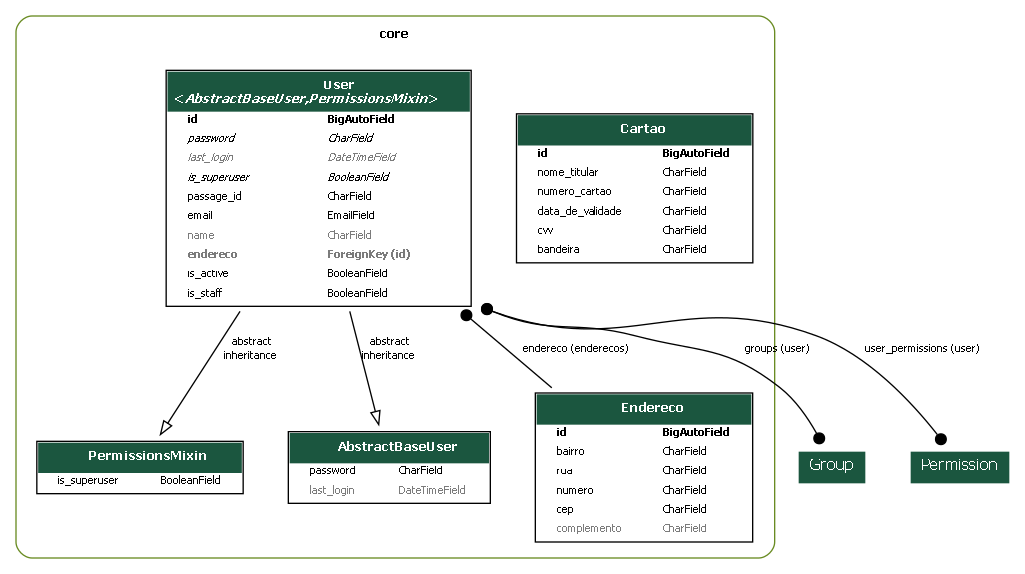
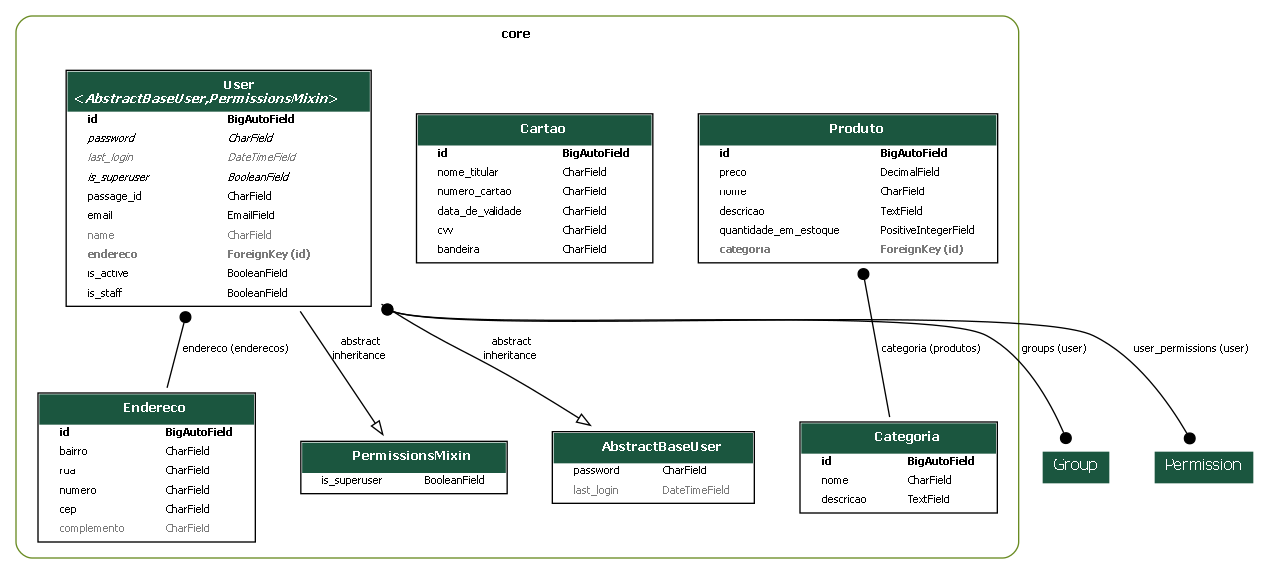
feat: Criado a API para Produto e adicionado a ForeinKey da Categoria #5

diff --git a/core/migrations/0015_categoria_produto_categoria.py b/core/migrations/0015_categoria_produto_categoria.py
@@ -1,0 +1,27 @@
+# Generated by Django 5.1.7 on 2025-06-12 00:28
+
+import django.db.models.deletion
+from django.db import migrations, models
+
+
+class Migration(migrations.Migration):
+
+    dependencies = [
+        ('core', '0014_produto'),
+    ]
+
+    operations = [
+        migrations.CreateModel(
+            name='Categoria',
+            fields=[
+                ('id', models.BigAutoField(auto_created=True, primary_key=True, serialize=False, verbose_name='ID')),
+                ('nome', models.CharField(default='', max_length=100, verbose_name='Nome do Categoria')),
+                ('descricao', models.TextField(default='', verbose_name='Descrição do Categoria')),
+            ],
+        ),
+        migrations.AddField(
+            model_name='produto',
+            name='categoria',
+            field=models.ForeignKey(blank=True, help_text='Categoria do produto', null=True, on_delete=django.db.models.deletion.PROTECT, related_name='produtos', to='core.categoria', verbose_name='Categoria'),
+        ),
+    ]

diff --git a/core/migrations/0014_produto.py b/core/migrations/0014_produto.py
@@ -1,0 +1,23 @@
+# Generated by Django 5.1.7 on 2025-06-12 00:22
+
+from django.db import migrations, models
+
+
+class Migration(migrations.Migration):
+
+    dependencies = [
+        ('core', '0013_user_endereco_delete_pessoa'),
+    ]
+
+    operations = [
+        migrations.CreateModel(
+            name='Produto',
+            fields=[
+                ('id', models.BigAutoField(auto_created=True, primary_key=True, serialize=False, verbose_name='ID')),
+                ('preco', models.DecimalField(decimal_places=2, default=0.0, max_digits=10, verbose_name='Preço')),
+                ('nome', models.CharField(default='', max_length=100, verbose_name='Nome do Produto')),
+                ('descricao', models.TextField(default='', verbose_name='Descrição do Produto')),
+                ('quantidade_em_estoque', models.PositiveIntegerField(default=0, verbose_name='Quantidade em Estoque')),
+            ],
+        ),
+    ]

diff --git a/core/admin.py b/core/admin.py
@@ -9,6 +9,8 @@ from django.utils.translation import gettext_lazy as _
 from core.models.usuario.user import User
 from core.models.usuario.endereco import Endereco
 from core.models.usuario.cartao import Cartao
+from core.models.produto.produto import Produto
+from core.models.produto.categoria import Categoria
 
 
 class UserAdmin(BaseUserAdmin):
@@ -66,3 +68,15 @@ class CartaoAdmin(admin.ModelAdmin):
     list_display = ('numero_cartao', 'nome_titular', 'data_de_validade')
     search_fields = ('numero_cartao', 'nome_titular')
     list_filter = ('data_de_validade',)
+
+@admin.register(Produto)
+class ProdutoAdmin(admin.ModelAdmin):
+    list_display = ('nome', 'preco', 'quantidade_em_estoque')
+    search_fields = ('nome',)
+    list_filter = ('categoria',)
+
+@admin.register(Categoria)
+class CategoriaAdmin(admin.ModelAdmin):
+    list_display = ('nome','descricao')
+    search_fields = ('nome',)
+    list_filter = ('nome',)

diff --git a/app/urls.py b/app/urls.py
@@ -10,12 +10,16 @@ from rest_framework.routers import DefaultRouter
 from core.views.usuario.user import UserViewSet
 from core.views.usuario.endereco import EnderecoViewSet
 from core.views.usuario.cartao import CartaoViewSet
+from core.views.produto.produto import ProdutoViewSet
+from core.views.produto.categoria import CategoriaViewSet
 
 router = DefaultRouter()
 
 router.register(r'usuarios', UserViewSet, basename='usuarios')
 router.register(r'enderecos', EnderecoViewSet, basename='enderecos')
 router.register(r'cartoes', CartaoViewSet, basename='cartoes')
+router.register(r'produtos', ProdutoViewSet, basename='produtos')
+router.register(r'categorias', CategoriaViewSet, basename='categorias')
 
 urlpatterns = [
     path('admin/', admin.site.urls),

diff --git a/core/models/produto/produto.py b/core/models/produto/produto.py
@@ -1,0 +1,12 @@
+from django.db import models
+
+class Produto(models.Model):
+    preco = models.DecimalField(max_digits=10, decimal_places=2, verbose_name='Preço', default=0.00)
+    nome = models.CharField(max_length=100, verbose_name='Nome do Produto', default="")
+    descricao = models.TextField(verbose_name='Descrição do Produto', default="")
+    quantidade_em_estoque = models.PositiveIntegerField(verbose_name='Quantidade em Estoque', default=0)
+    categoria = models.ForeignKey('Categoria', on_delete=models.PROTECT, null=True, blank=True, related_name='produtos', verbose_name='Categoria', help_text='Categoria do produto')
+
+
+    def __str__(self):
+        return f"{self.nome} - {self.preco}"

diff --git a/core/models/produto/categoria.py b/core/models/produto/categoria.py
@@ -1,0 +1,9 @@
+from django.db import models
+
+class Categoria(models.Model):
+    nome = models.CharField(max_length=100, verbose_name='Nome do Categoria', default="")
+    descricao = models.TextField(verbose_name='Descrição do Categoria', default="")
+
+
+    def __str__(self):
+        return f"{self.nome} - {self.descricao}"

diff --git a/core/views/produto/categoria.py b/core/views/produto/categoria.py
@@ -1,0 +1,8 @@
+from rest_framework.viewsets import ModelViewSet
+
+from core.models.produto.categoria import Categoria
+from core.serializers.produto.categoria import CategoriaSerializer
+
+class CategoriaViewSet(ModelViewSet):
+    queryset = Categoria.objects.all()
+    serializer_class = CategoriaSerializer

diff --git a/core/views/produto/produto.py b/core/views/produto/produto.py
@@ -1,0 +1,8 @@
+from rest_framework.viewsets import ModelViewSet
+
+from core.models.produto.produto import Produto
+from core.serializers.produto.produto import ProdutoSerializer
+
+class ProdutoViewSet(ModelViewSet):
+    queryset = Produto.objects.all()
+    serializer_class = ProdutoSerializer

diff --git a/core/serializers/__init__.py b/core/serializers/__init__.py
@@ -1,3 +1,5 @@
 from .usuario.user import UserSerializer
 from .usuario.endereco import EnderecoSerializer
 from .usuario.cartao import CartaoSerializer
+from .produto.produto import ProdutoSerializer
+from .produto.categoria import CategoriaSerializer

diff --git a/core/serializers/produto/categoria.py b/core/serializers/produto/categoria.py
@@ -1,0 +1,8 @@
+from rest_framework.serializers import ModelSerializer
+
+from core.models.produto.categoria import Categoria
+
+class CategoriaSerializer(ModelSerializer):
+    class Meta:
+        model = Categoria
+        fields = '__all__'

diff --git a/core/views/__init__.py b/core/views/__init__.py
@@ -1,3 +1,5 @@
 from .usuario.user import UserViewSet
 from .usuario.endereco import EnderecoViewSet
 from .usuario.cartao import CartaoViewSet
+from .produto.produto import ProdutoViewSet
+from .produto.categoria import CategoriaViewSet

diff --git a/core/serializers/produto/produto.py b/core/serializers/produto/produto.py
@@ -1,0 +1,8 @@
+from rest_framework.serializers import ModelSerializer
+
+from core.models.produto.produto import Produto
+
+class ProdutoSerializer(ModelSerializer):
+    class Meta:
+        model = Produto
+        fields = '__all__'
